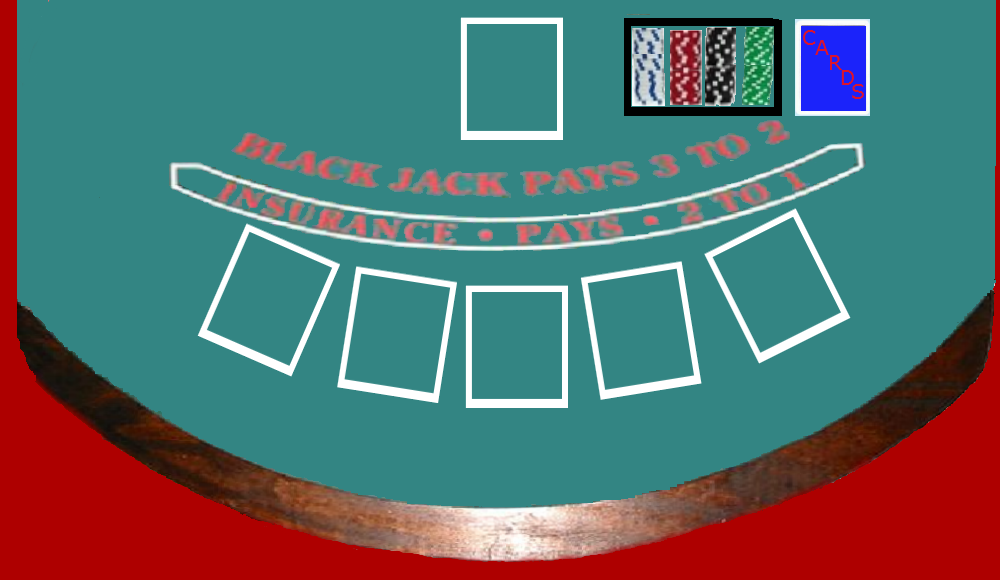
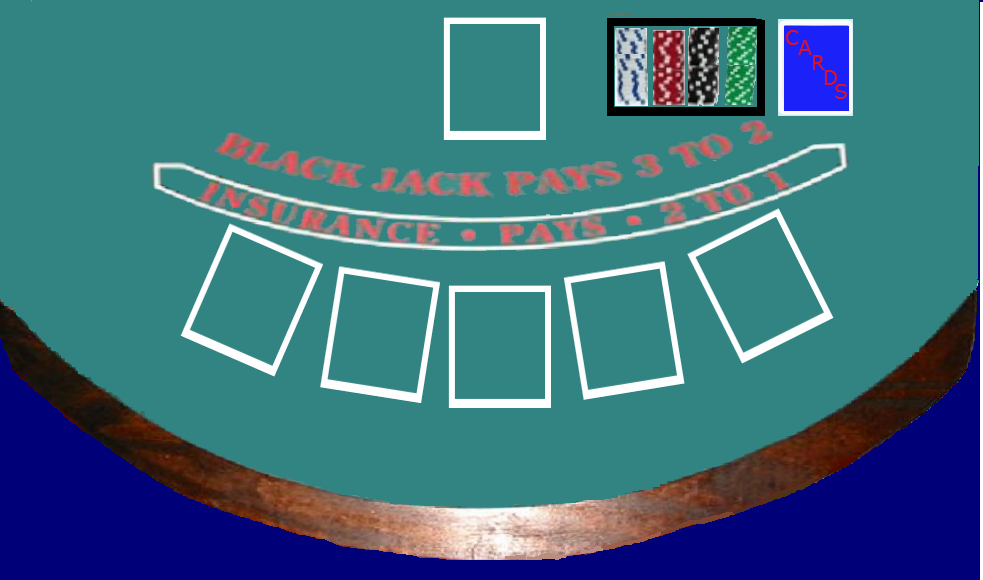
Changed background to blue

diff --git a/public/css/styles.css b/public/css/styles.css
@@ -26,7 +26,6 @@ div#wrap {
     /*box-shadow: 10px 10px 5px #1f1f1f;*/	
 }
 div#header {
-
     border-top:6px solid #414141;
 	border-top-right-radius:10px;
 	border-top-left-radius:60px;
@@ -39,19 +38,17 @@ div#header {
 }
 div#innerheader {
 	border-top-left-radius:55px;
-    background: rgb(169,3,41); 
-    /* Old browsers */
-    background: -moz-linear-gradient(-45deg, rgba(169,3,41,1) 0%, rgba(143,2,34,1) 44%, rgba(109,0,25,1) 100%); /* FF3.6+ */
-    background: -webkit-gradient(linear, left top, right bottom, color-stop(0%,rgba(169,3,41,1)), color-stop(44%,rgba(143,2,34,1)), color-stop(100%,rgba(109,0,25,1))); 
-    /* Chrome,Safari4+ */
-    background: -webkit-linear-gradient(-45deg, rgba(169,3,41,1) 0%,rgba(143,2,34,1) 44%,rgba(109,0,25,1) 100%); /* Chrome10+,Safari5.1+ */
-    background: -o-linear-gradient(-45deg, rgba(169,3,41,1) 0%,rgba(143,2,34,1) 44%,rgba(109,0,25,1) 100%); 
-    /* Opera 11.10+ */
-    background: -ms-linear-gradient(-45deg, rgba(169,3,41,1) 0%,rgba(143,2,34,1) 44%,rgba(109,0,25,1) 100%); 
-    /* IE10+ */
-    background: linear-gradient(-45deg, rgba(169,3,41,1) 0%,rgba(143,2,34,1) 44%,rgba(109,0,25,1) 100%); 
-    /* W3C */
-    filter: progid:DXImageTransform.Microsoft.gradient( startColorstr='#6d0019', endColorstr='#AE0000',GradientType=1 ); /* IE6-9 fallback on horizontal gradient */
+    background: rgb(0,0,120); /* Old browsers */
+    background: -moz-linear-gradient(-45deg,  rgba(0,0,120,1) 0%, rgba(0,0,150,1) 47%, rgba(0,0,175,1) 82%, rgba(0,0,175,1) 100%); /* FF3.6+ */
+    background: -webkit-gradient(linear, left top, right bottom, color-stop(0%,rgba(0,0,120,1)), color-stop(47%,rgba(0,0,150,1)), color-stop(82%,rgba(0,0,175,1)), color-stop(100%,rgba(0,0,175,1))); /* Chrome,Safari4+ */
+    background: -webkit-linear-gradient(-45deg,  rgba(0,0,120,1) 0%,rgba(0,0,150,1) 47%,rgba(0,0,175,1) 82%,rgba(0,0,175,1) 100%); /* Chrome10+,Safari5.1+ */
+    background: -o-linear-gradient(-45deg,  rgba(0,0,120,1) 0%,rgba(0,0,150,1) 47%,rgba(0,0,175,1) 82%,rgba(0,0,175,1) 100%); /* Opera 11.10+ */
+    background: -ms-linear-gradient(-45deg,  rgba(0,0,120,1) 0%,rgba(0,0,150,1) 47%,rgba(0,0,175,1) 82%,rgba(0,0,175,1) 100%); /* IE10+ */
+    background: linear-gradient(-45deg,  rgba(0,0,120,1) 0%,rgba(0,0,150,1) 47%,rgba(0,0,175,1) 82%,rgba(0,0,175,1) 100%); /* W3C */
+    filter: progid:DXImageTransform.Microsoft.gradient( startColorstr='#000078', endColorstr='#0000af',GradientType=1 ); /* IE6-9 fallback on horizontal gradient */
+
+
+
 	height:149px;
 }
 div#title {
@@ -111,6 +108,11 @@ div#sidebar {
     top:710px;
     left:850px;
 }  
+/*#Main_Menu{
+    position:abosolute;
+    top: 710px;
+    left: 100px;
+}*/
 ul.gamemenu{
 	list-style:none; 
 	border:0px solid #000;
@@ -147,7 +149,7 @@ h1 {
 	font-weight:normal;
 }
 h2 {
-	color:#4A0000;
+	color:#00E000;
 	font-weight:normal;
 	padding:0;
 	margin:-10px 0 0 0;
@@ -201,7 +203,7 @@ div#footer {
 	border-right:6px solid #414141;
 	border-bottom:6px solid #414141;	   
     box-shadow:10px 10px 5px #1f1f1f;	
-	background-color:#AE0000;
+	background-color:#000078;
 }
 div#footer p {
 	text-align:center;
